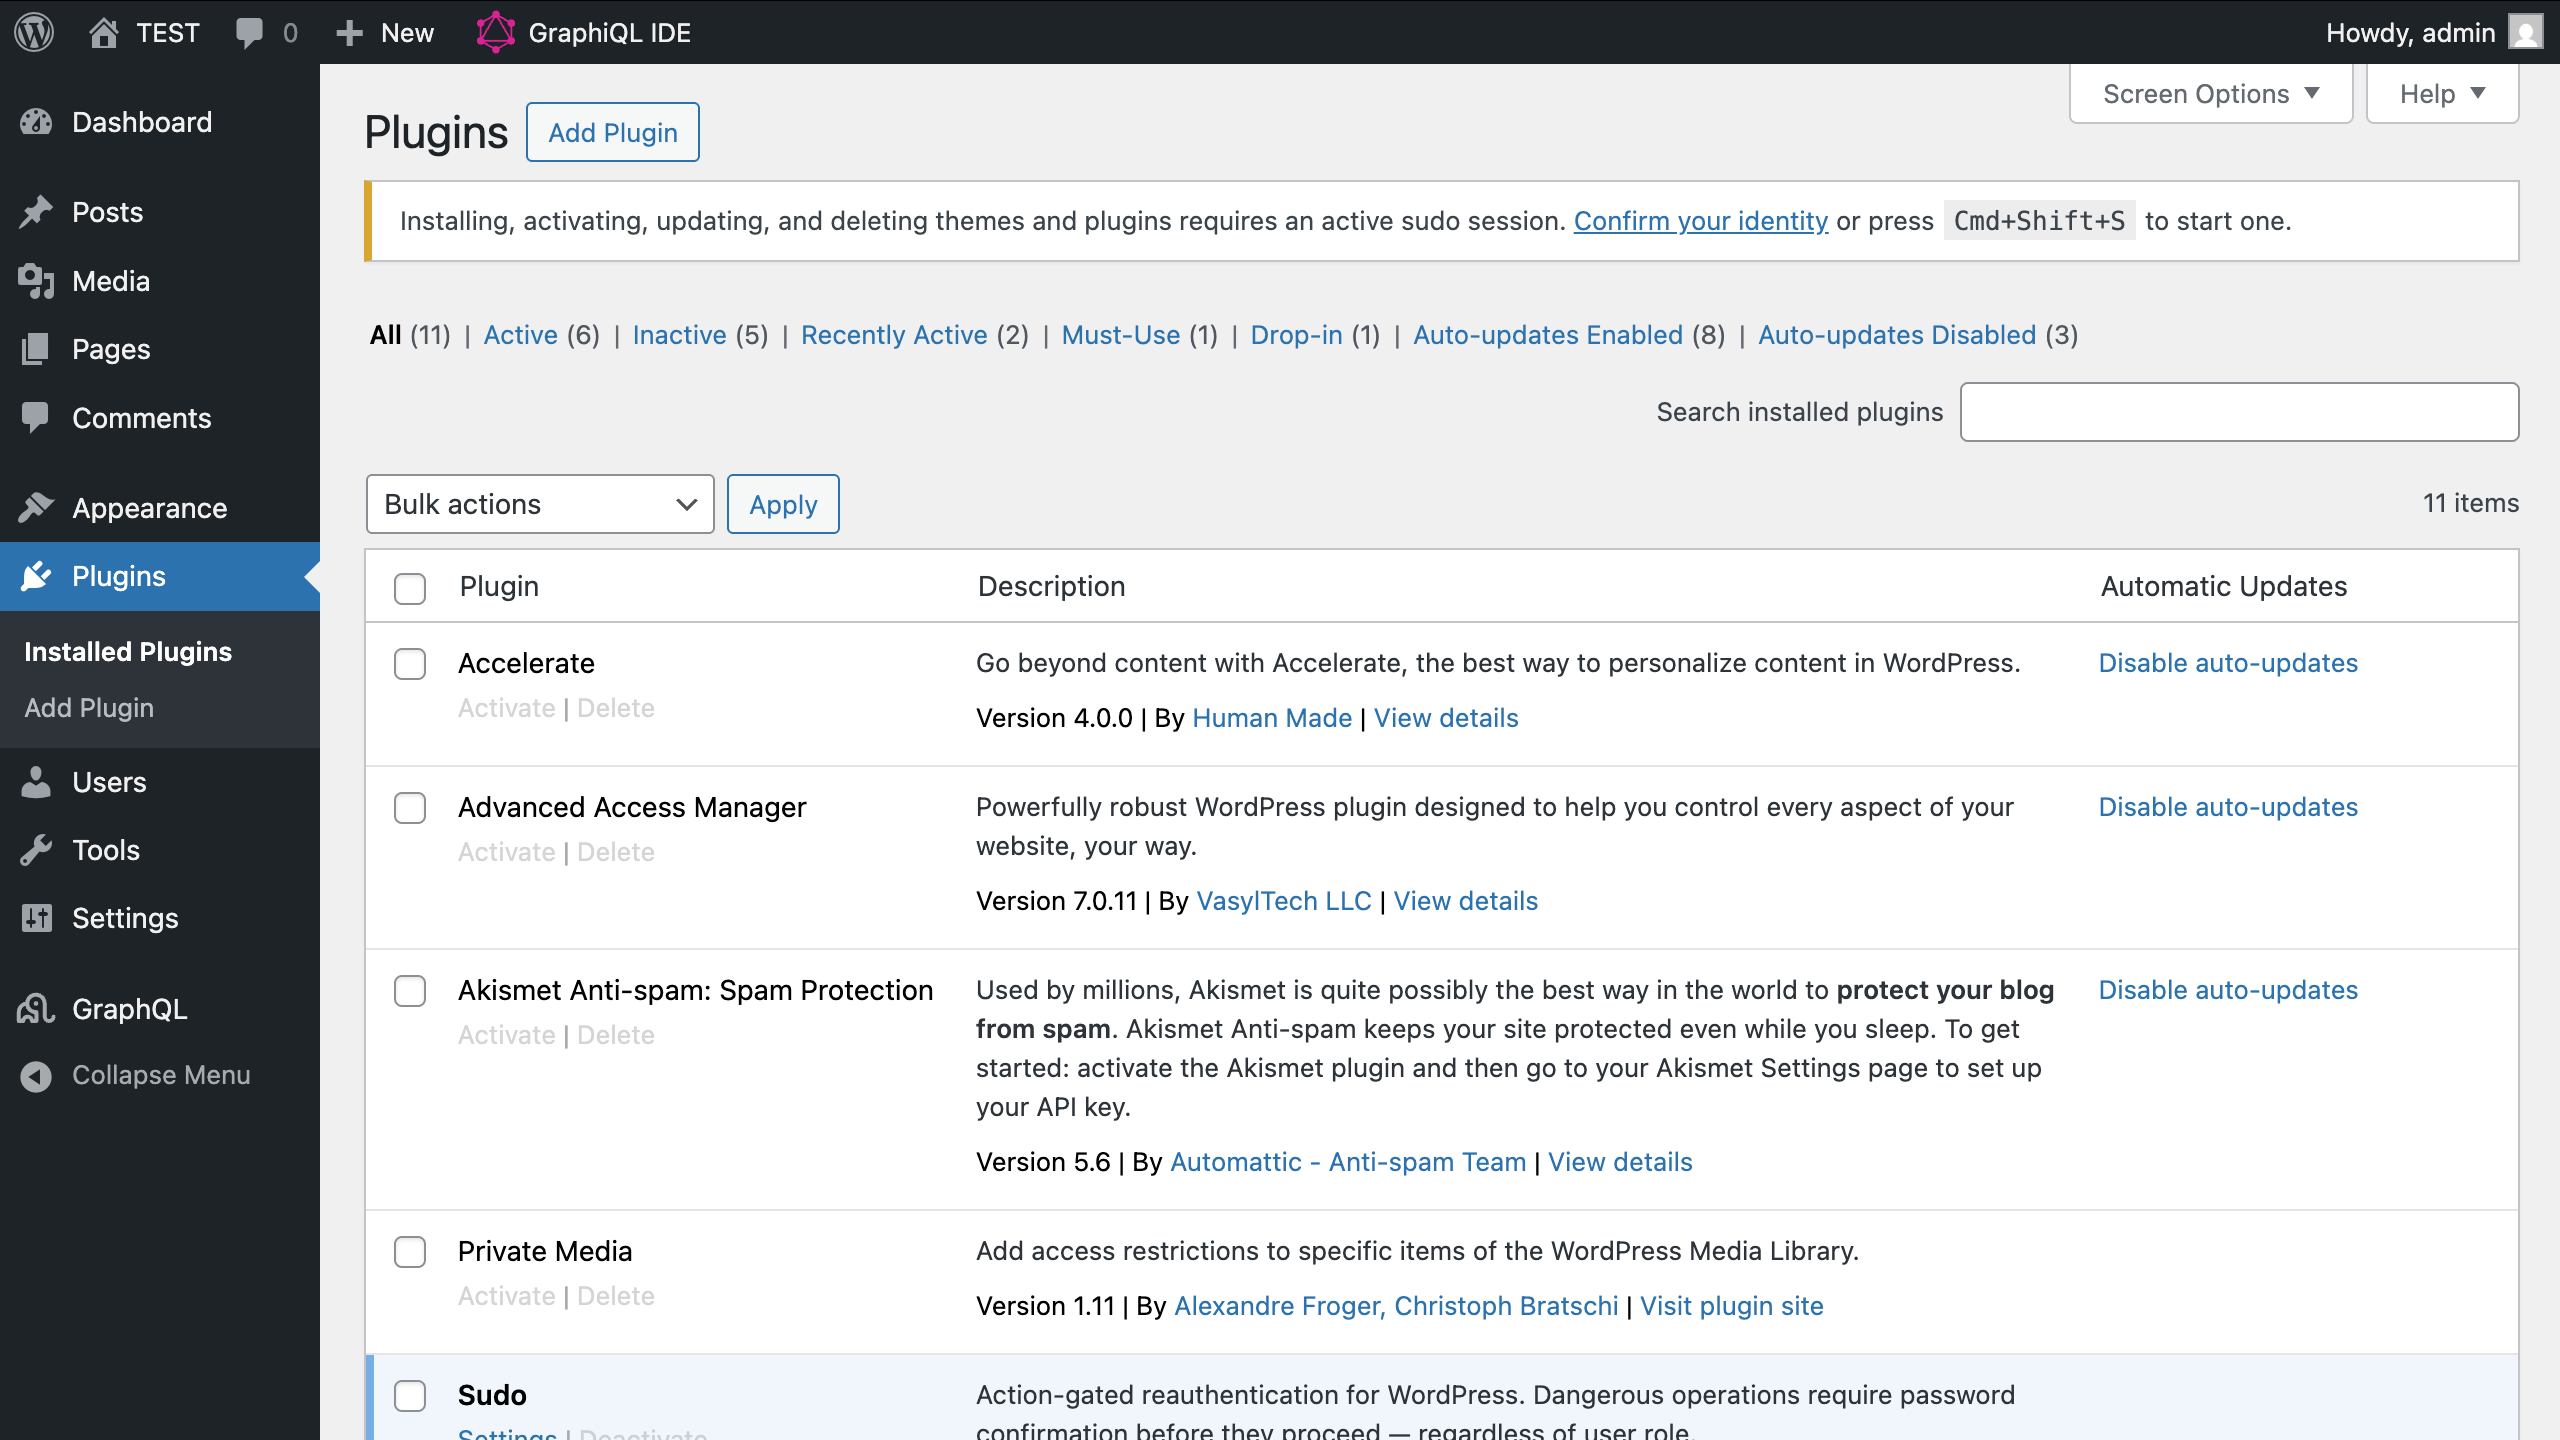
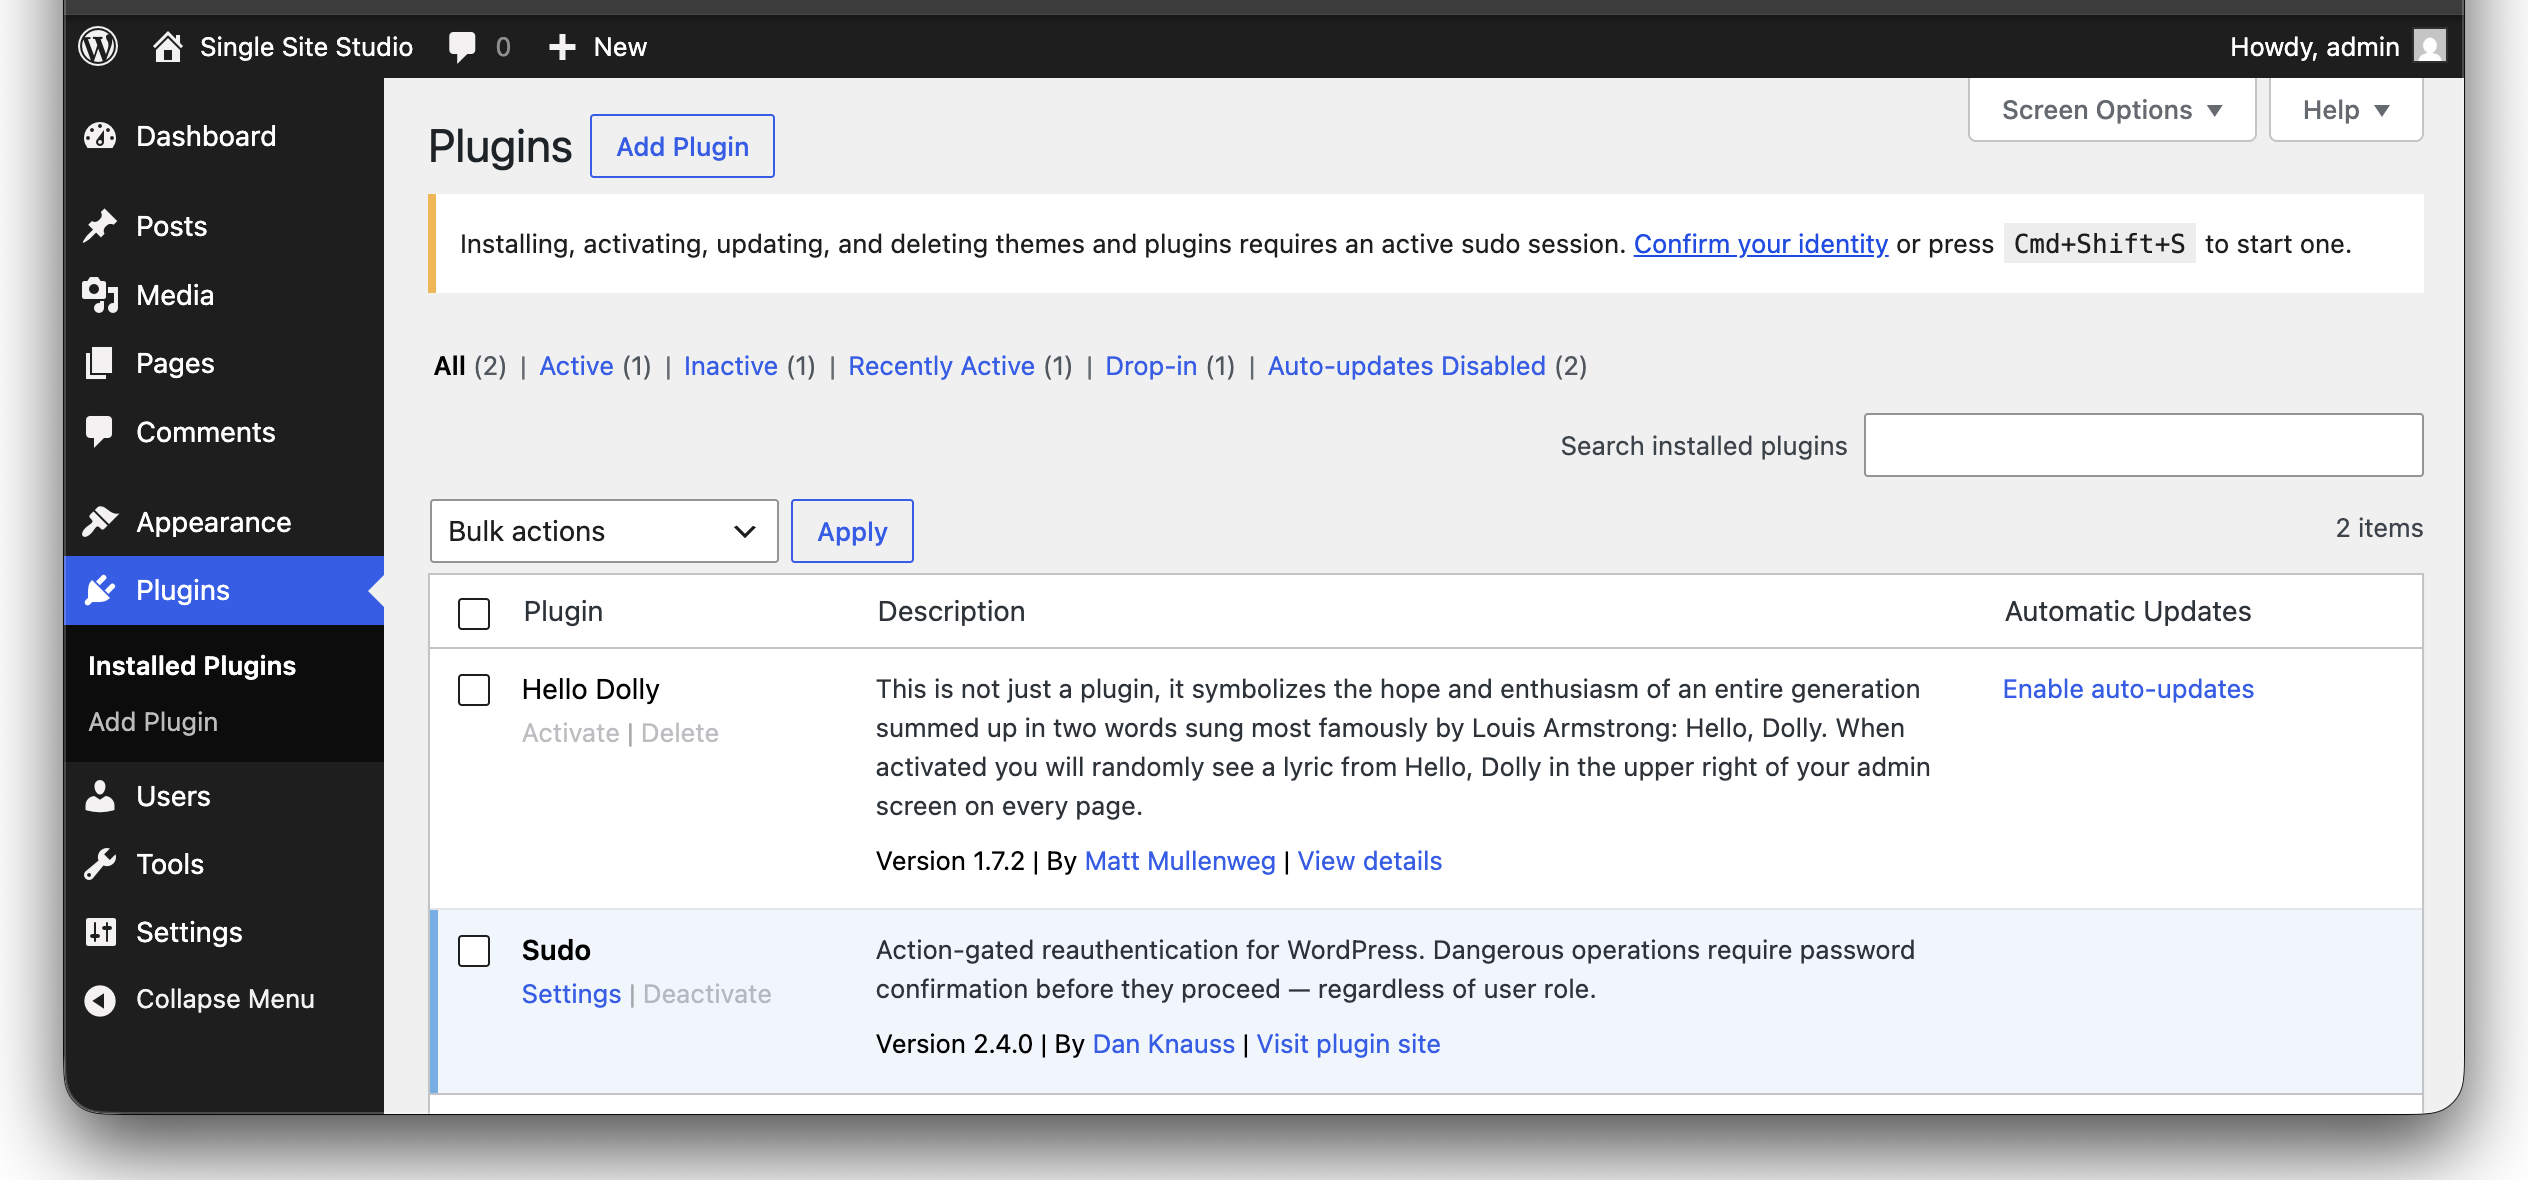
docs: update screenshots for WP 7.0 and add v2.4.0 changelog to readme.md
- Replace screenshots 1, 3–7 with fresh captures from WP 7.0 Beta 1
- Screenshot 2 (2FA verification) unchanged — requires Two Factor plugin
- Add v2.4.0 changelog entry to readme.md (was missing from version bump)
- Screenshots show: challenge page, settings page, gate notices (plugins
  and themes), gated actions table, active sudo session timer

diff --git a/readme.md b/readme.md
@@ -145,6 +145,17 @@ Hook signatures, filter reference, custom rule structure, and testing instructio
 
 ## Changelog
 
+### 2.4.0
+
+- **Integration test suite** — 55 tests against real WordPress + MySQL (session lifecycle, request stash/replay, full reauth flow, REST gating, upgrader migrations, Two Factor interaction, multisite isolation).
+- **CI pipeline** — GitHub Actions with unit tests across PHP 8.1–8.4 and integration tests against WordPress latest + trunk.
+- **Fix: multisite site-management gate gap** — Archive, Spam, Delete, Deactivate site actions now correctly trigger the sudo challenge.
+- **Fix: admin bar timer width** — expiring (red) state no longer stretches wider than active (green) state.
+- **Fix: WP 7.0 admin notice background** — restored white background lost in WP 7.0's admin visual refresh.
+- **Fix: 2FA countdown advisory-only** — window reduced to 5 minutes; expired codes accepted if provider validates.
+- **WP 7.0 Beta 1 tested** — full manual testing guide completed, all 15 sections PASS.
+- **349 unit tests, 863 assertions. 55 integration tests in CI.**
+
 ### 2.3.2
 
 - **Fix: admin bar sr-only text leak** — screen-reader-only milestone text no longer renders in the dashboard canvas when the admin bar node lacks a containing block.
